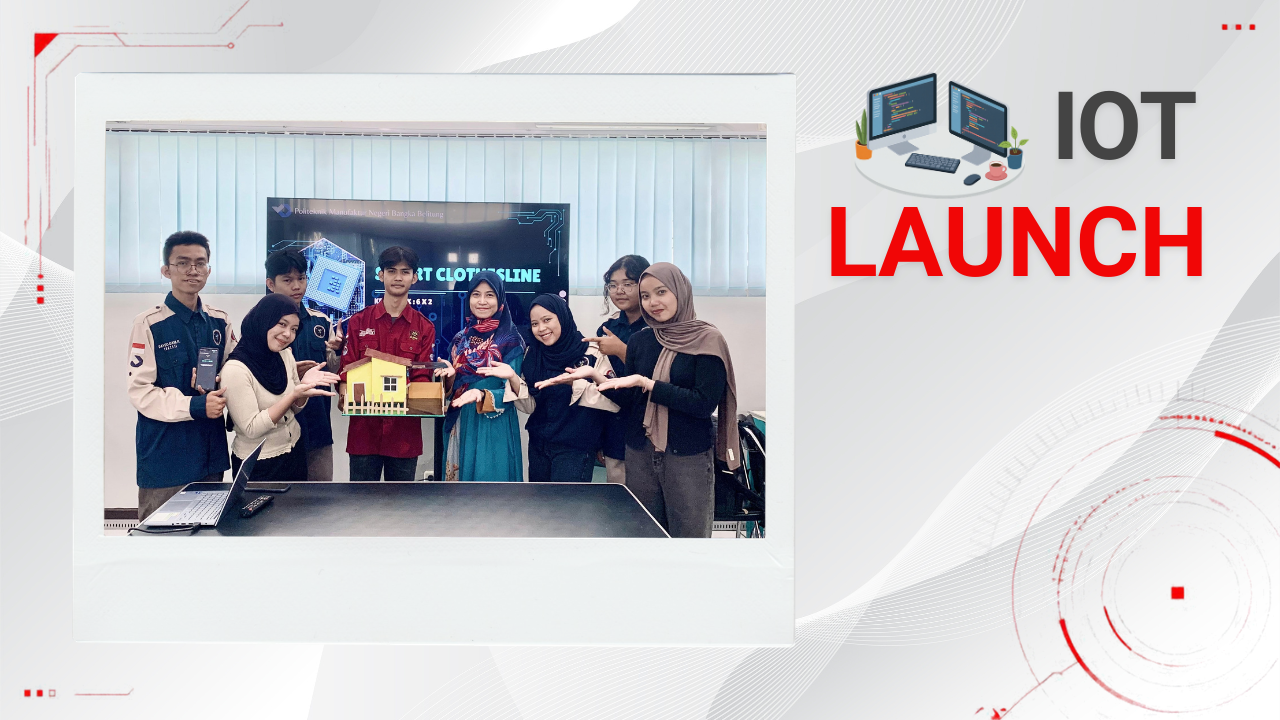
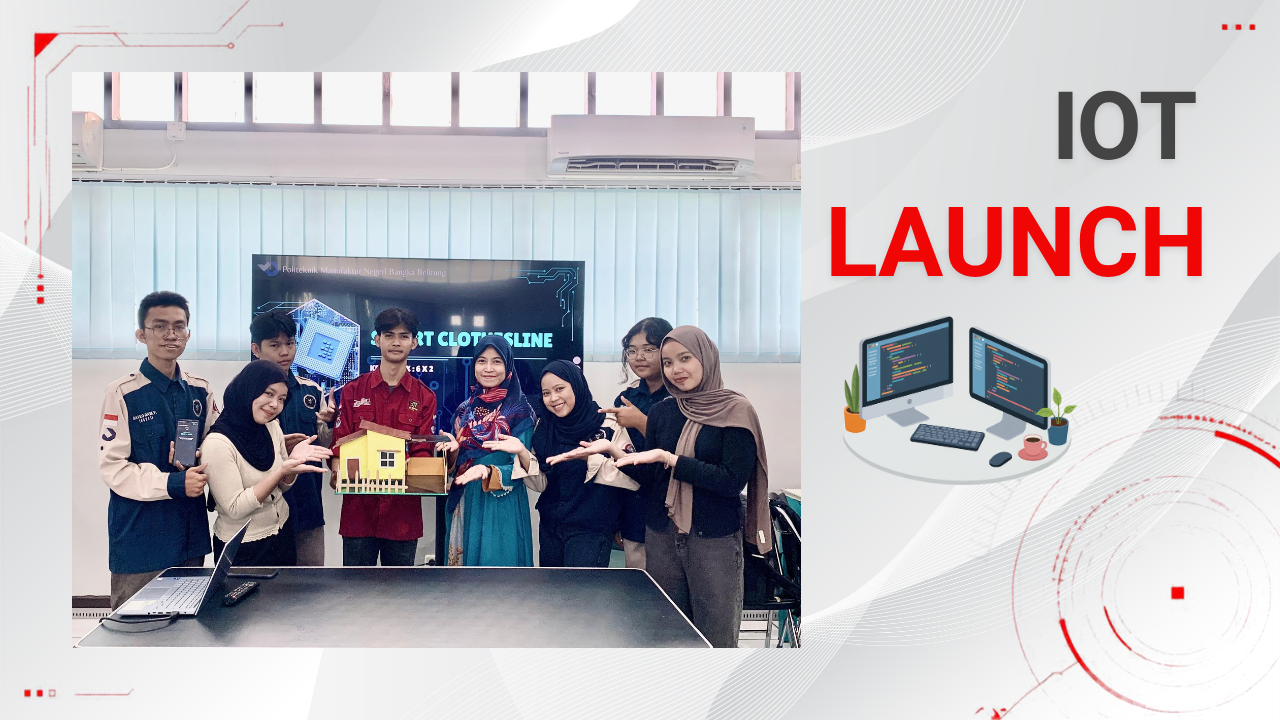
Update portfolio

diff --git a/data/projects.ts b/data/projects.ts
@@ -46,7 +46,34 @@ export const projects: Project[] = [
     prototype: "https://www.figma.com/file/Gp66mrNXKzckp9EL8arT1q/Prototype-Stok-Kita",
     featured: true,
   },
-  
+  {
+    id: "iot-ai-sistem-pemilah-sampah",
+    title: "Sistem Pemilah Sampah Otomatis Berbasis IoT & AI",
+    category: "IoT & AI",
+    categories: ["IoT", "AI"],
+    role: "IoT & AI Engineer",
+    longDescription:
+      "Mengembangkan prototipe sistem pemilah sampah otomatis berbasis Internet of Things (IoT) yang terintegrasi dengan model klasifikasi berbasis AI untuk mengidentifikasi sampah organik, anorganik, dan B3 secara real-time.",
+    technologies: ["Computer Vision", "Image Processing", "Raspberry Pi", "ESP32", "Sensors", "Servo", "C/C++"],
+    image: "/images/projects/pemilah-sampah.png",
+    images: [
+      "/images/projects/pemilah-sampah-1.png",
+      "/images/projects/pemilah-sampah-2.png",
+      "/images/projects/pemilah-sampah-3.png",
+      "/images/projects/pemilah-sampah-4.png",
+      "/images/projects/pemilah-sampah-5.png",
+      "/images/projects/pemilah-sampah-6.png",
+    ],
+    slides: [
+      "Presentasi dan Foto Tim",
+      "Prototype Sistem",
+      "Website Halaman Klasifikasi",
+      "Website Halaman Monitoring",
+      "Box Panel",
+      "Wiring Box Panel",
+    ],
+    featured: true,
+  },
   {
     id: "attendance-ocr-system",
     title: "Sistem Rekapitulasi Presensi Berbasis OCR",
@@ -74,7 +101,7 @@ export const projects: Project[] = [
     title: "Smart Clothesline Berbasis IoT & Blynk Cloud",
     category: "IoT",
     categories: ["IoT", "Embedded Systems"],
-    role: "IoT Firmware & Hardware Engineer",
+    role: "IoT & Hardware Engineer",
     longDescription:
       "Mengembangkan sistem Smart Clothesline berbasis IoT menggunakan ESP32, servo motor, sensor hujan, buzzer, dan aplikasi Blynk. Sistem dirancang untuk membuka dan menutup jemuran secara otomatis berdasarkan jadwal yang ditentukan serta kondisi hujan secara real-time.",
     technologies: ["Blynk", "ESP32", "Sensors", "Servo", "C/C++"],
